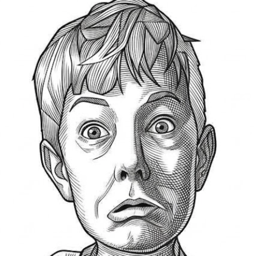
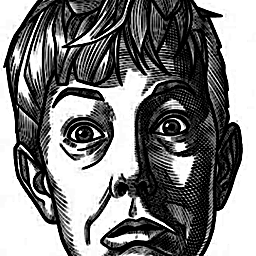
TE-66: Kinder-Avatare kontrastreicher (Linien verdickt, Mitteltöne abgedunkelt, Gesicht enger zugeschnitten), Dashboard-Avatare 36 px, Version 2.65.1

diff --git a/src/screens/DashboardScreen.tsx b/src/screens/DashboardScreen.tsx
@@ -854,7 +854,7 @@ export function DashboardScreen() {
           ].filter(Boolean).join(' · ');
           return (
             <View key={`kr-${childId}`} style={[styles.dezentRow, styles.rowDivider]}>
-              <ChildAvatar child={childOf(childId)} size={30} />
+              <ChildAvatar child={childOf(childId)} size={36} />
               {/* TE-56: Name vor den Aufgaben (flach, kein Extra-Zeile) – das Emoji allein verrät nicht, wer gemeint ist. */}
               <Pressable style={{ flex: 1, flexDirection: 'row', gap: 8 }} onPress={() => router.push('/(tabs)/kids' as any)}>
                 <Text style={{ fontSize: 13.5, fontWeight: '700', color: colors.text }} numberOfLines={1}>{childName(childId)}</Text>
@@ -1071,7 +1071,7 @@ export function DashboardScreen() {
                     onPress={() => router.push({ pathname: '/(tabs)/schule', params: { child: childId } } as any)}
                     style={({ pressed }) => [styles.kidHeaderRow, styles.rowDivider, { opacity: pressed ? 0.6 : 1 }]}
                   >
-                    <ChildAvatar child={childOf(childId)} size={30} />
+                    <ChildAvatar child={childOf(childId)} size={36} />
                     <Text style={[styles.kidHeaderText, { color: colors.textMuted }]}>
                       {childName(childId)}
                     </Text>
@@ -1125,7 +1125,7 @@ export function DashboardScreen() {
                   onPress={() => openAllowanceEdit(child.id)}
                   style={[styles.kidRow, styles.rowDivider]}
                 >
-                  <ChildAvatar child={childOf(child.id)} size={30} />
+                  <ChildAvatar child={childOf(child.id)} size={36} />
                   <View style={{ flex: 1 }}>
                     <Text style={[styles.kidTaskText, { color: colors.text }]} numberOfLines={1}>
                       {childName(child.id)}
